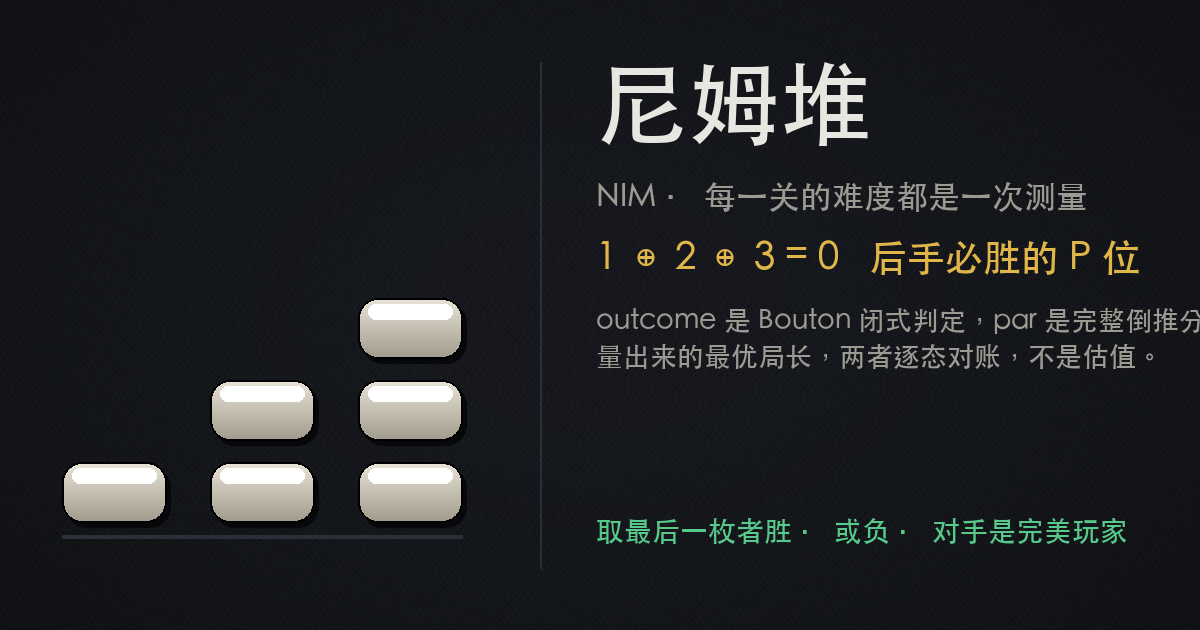
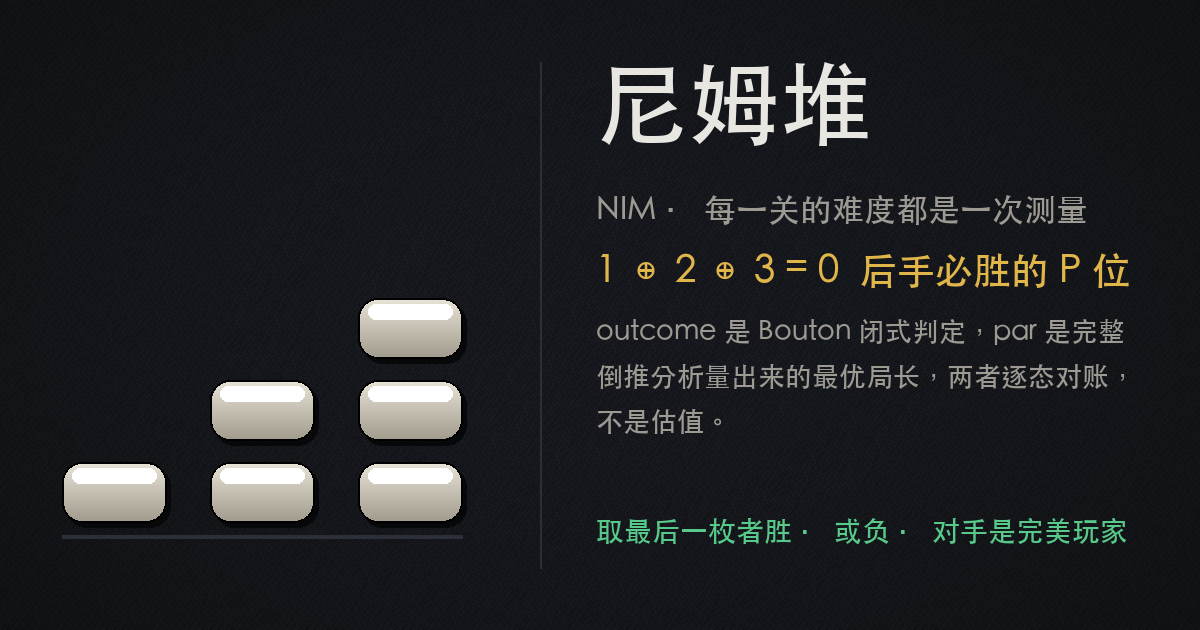
fix: 社交卡的两行正文被画布切掉了 95px 与 25px，加一条量着断行的规矩
美术是自己画的（assets/gen/make_art.py，17 张 PNG 全部现算，不外链、不下载），
这张 1200x630 的卡是唯一的对外门面。它把换行写死在字符串里，而 CJK 的断行位置
跟字号绑在一起 —— 一改文案就出界。逐行实测（PIL draw.textlength，可用宽度
avail = 1200 - pad(62) - tx(596) = 542px）：

  旧 body 第一行  size=27  637px  超出 +95   ← 「…完整倒推分析」被切掉后半截
  旧 body 第二行  size=27  567px  超出 +25
  旧 form 算式行  size=38  544px  超出 +2    ← 折行后落单一个「位」字
  新 form 算式行  size=38  534px  超出  -8
  title/sub/foot         276 / 492 / 532px  全部在界内

改法：wrap_to() 逐字量宽断行（CJK 没有空格可退），并对任何一行仍超宽直接
raise —— 宁可多出一行，不许少一个字；页脚从钉死在 h-pad-52 改成钉在正文流
之下 max(h-pad-52, y+10)，文案再长也不与正文重叠。

重放校验（可复现是这批位图唯一的可信度来源）：把 assets/ 整份拷到
/tmp/nimart4 删掉 og-card.png 再跑一次脚本 → 与仓内 17/17 byte-identical；
仓内连跑两次同样 byte-identical。og-card.png 623151 → 625076 B，
IHDR 1200x630 8-bit RGB 不变；其余 16 张字节未变。全 17 张 `file` 均为真
PNG（无 0 字节、无 SVG 冒充），index.html / manifest.webmanifest /
electron/main.cjs / js/view.js 引用的 13 个位图路径逐个 stat 全部存在。

顺带把 css/game.css 顶部那句「no images and no fonts fetched anywhere」改成
实话：样式表自己确实一个字节也不取（无导入语句、无外链——test/library.test.mjs
就是照字面量卡的这条，旧注释里写出那个 token 时它当场红了一次，说明这道闸有效），但盘上的桌布与
石屑是 js/view.js 从同仓 assets/textures/ 读的真 PNG，读不到退回程序化画法。

sellability.py 读数不变：17/17 → 17/17（这把尺量的是"有没有"，这一笔管的是
"是不是真的能看"）。

Changed region(s): [[0.4933, 0.4825, 1.0, 0.6937], [0.5242, 0.2714, 0.9558, 0.4524], [0.4933, 0.2714, 0.555, 0.3619]]

diff --git a/css/game.css b/css/game.css
@@ -1,4 +1,6 @@
-/* 尼姆堆 — one dark table, lit stones, no images and no fonts fetched anywhere.
+/* 尼姆堆 — one dark table, lit stones. 这张样式表自己不取任何东西：没有导入语句，没有外链，
+   也没有远程字体。盘上的位图（桌布与石屑）是 js/view.js 从同仓 assets/textures/ 读的真 PNG，
+   读不到就退回原来的程序化画法 —— 少一张桌布，功能一颗不少。
    Layout is a single column on a phone and a board + panel split from 820px up. */
 :root {
   --ink: #e8e6e1;

diff --git a/assets/gen/make_art.py b/assets/gen/make_art.py
@@ -153,6 +153,29 @@ def font(size):
     return ImageFont.load_default(size)
 
 
+def wrap_to(draw, text, fnt, max_w):
+    """按实测宽度断行：中日韩没有空格，只能逐字量。`max_w` 是右边距内可用的像素宽。
+
+    这张卡上一版把正文写糊到画布外去了（"倒推分析"被切成"倒推分析"的前半截），
+    所以这里不是"排版好看一点"，是让文字全部落在盘上——宁可多出一行，不许少一个字。
+    """
+    lines = []
+    for hard in str(text).split('\n'):
+        cur = ''
+        for ch in hard:
+            if draw.textlength(cur + ch, font=fnt) <= max_w:
+                cur += ch
+                continue
+            lines.append(cur)
+            cur = ch.lstrip()
+        lines.append(cur)
+    for ln in lines:
+        if draw.textlength(ln, font=fnt) > max_w:
+            raise RuntimeError('一行文字比可用宽度还长，必然被切掉: %r (%.0f > %.0f)'
+                               % (ln[:12], draw.textlength(ln, font=fnt), max_w))
+    return lines
+
+
 def og_card():
     """1200x630 社交卡：左边同一条 1|2|3，右边写它读出来的三个数。"""
     w, h = 1200, 630
@@ -171,14 +194,24 @@ def og_card():
     divide = pad + n * (cw + gap) + 34
     d.line((divide, pad, divide, h - pad), fill=LINE, width=2)
     tx = divide + 56
-    d.text((tx, pad - 6), '尼姆堆', font=font(92), fill=INK)
-    d.text((tx, pad + 118), 'NIM · 每一关的难度都是一次测量', font=font(32), fill=INK_DIM)
-    d.text((tx, pad + 176), '1 ⊕ 2 ⊕ 3 = 0   后手必胜的 P 位', font=font(38), fill=PICK)
-    d.text((tx, pad + 244),
-           'outcome 是 Bouton 闭式判定，par 是完整倒推分析\n'
-           '量出来的最优局长，两者逐态对账，不是估值。',
-           font=font(27), fill=INK_DIM, spacing=12)
-    d.text((tx, h - pad - 52), '取最后一枚者胜 · 或负 · 对手是完美玩家', font=font(28), fill=WIN)
+    avail = w - pad - tx          # 右边距之内才是能写字的地方，超出一个像素都算画坏了
+    f_title, f_sub, f_form, f_body, f_foot = font(92), font(32), font(38), font(27), font(28)
+    y = pad - 6
+    blocks = [
+        (wrap_to(d, '尼姆堆', f_title, avail), f_title, INK),
+        (wrap_to(d, 'NIM · 每一关的难度都是一次测量', f_sub, avail), f_sub, INK_DIM),
+        (wrap_to(d, '1 ⊕ 2 ⊕ 3 = 0  后手必胜的 P 位', f_form, avail), f_form, PICK),
+        (wrap_to(d, 'outcome 是 Bouton 闭式判定，par 是完整倒推分析量出来的'
+                    '最优局长，两者逐态对账，不是估值。', f_body, avail), f_body, INK_DIM),
+    ]
+    for lines, fnt, color in blocks:
+        for ln in lines:
+            d.text((tx, y), ln, font=fnt, fill=color)
+            y += int(fnt.size * 1.32) + 10
+        y += 6
+    foot = wrap_to(d, '取最后一枚者胜 · 或负 · 对手是完美玩家', f_foot, avail)
+    # 页脚钉在正文流之下：文案一改多出一行，也不许和它叠在一起
+    d.text((tx, max(h - pad - 52, y + 10)), foot[0], font=f_foot, fill=WIN)
     return img.convert('RGB')
 
 
